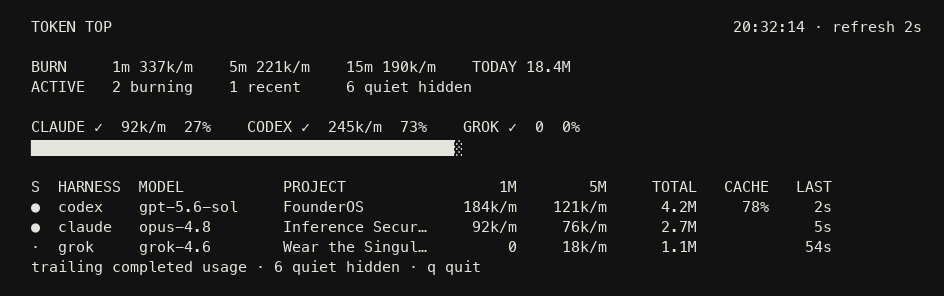
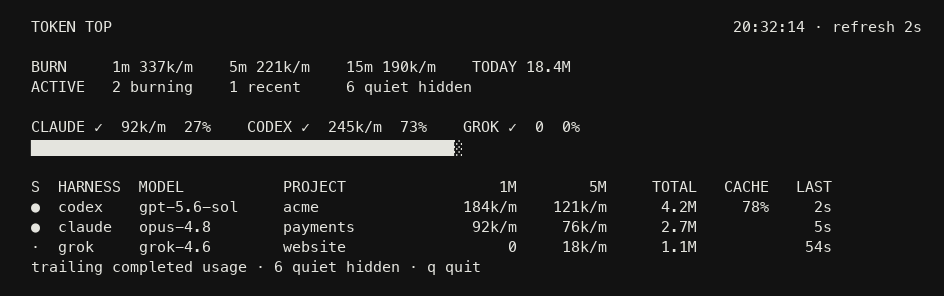
Treat token-top as a standalone public tool.
Drop FounderOS/integrator language from docs and package comments,
and replace portfolio names in fixtures, goldens, and the screenshot.

Changed region(s): [[0.2765, 0.6689, 0.4608, 0.7905], [0.2765, 0.8209, 0.4608, 0.8514]]

diff --git a/sources/claude/source_test.go b/sources/claude/source_test.go
@@ -53,7 +53,7 @@ func TestPollNormalAndEngine(t *testing.T) {
 	if snap.Global.Burning != 1 || snap.Sessions[0].Source != telemetry.SourceClaude {
 		t.Fatalf("snap %+v", snap)
 	}
-	if snap.Sessions[0].ProjectLabel != "FounderOS" {
+	if snap.Sessions[0].ProjectLabel != "acme" {
 		t.Fatalf("project %q", snap.Sessions[0].ProjectLabel)
 	}
 }
@@ -166,10 +166,10 @@ func TestPollTailFirstThenHistNoDoubleCount(t *testing.T) {
 		t.Fatal(err)
 	}
 	for i := 0; i < 20; i++ {
-		f.WriteString(`{"type":"user","timestamp":"2026-08-16T19:00:00.000Z","sessionId":"aaaaaaaa-aaaa-aaaa-aaaa-aaaaaaaaaaaa","cwd":"/work/FounderOS","message":{"role":"user"}}` + "\n")
+		f.WriteString(`{"type":"user","timestamp":"2026-08-16T19:00:00.000Z","sessionId":"aaaaaaaa-aaaa-aaaa-aaaa-aaaaaaaaaaaa","cwd":"/work/acme","message":{"role":"user"}}` + "\n")
 	}
-	f.WriteString(`{"type":"assistant","timestamp":"2026-08-16T19:50:00.000Z","sessionId":"aaaaaaaa-aaaa-aaaa-aaaa-aaaaaaaaaaaa","cwd":"/work/FounderOS","message":{"id":"msg_old","model":"claude-opus-4.8","usage":{"input_tokens":100,"output_tokens":20}}}` + "\n")
-	f.WriteString(`{"type":"assistant","timestamp":"2026-08-16T20:00:10.000Z","sessionId":"aaaaaaaa-aaaa-aaaa-aaaa-aaaaaaaaaaaa","cwd":"/work/FounderOS","message":{"id":"msg_new","model":"claude-opus-4.8","usage":{"input_tokens":5,"output_tokens":3}}}` + "\n")
+	f.WriteString(`{"type":"assistant","timestamp":"2026-08-16T19:50:00.000Z","sessionId":"aaaaaaaa-aaaa-aaaa-aaaa-aaaaaaaaaaaa","cwd":"/work/acme","message":{"id":"msg_old","model":"claude-opus-4.8","usage":{"input_tokens":100,"output_tokens":20}}}` + "\n")
+	f.WriteString(`{"type":"assistant","timestamp":"2026-08-16T20:00:10.000Z","sessionId":"aaaaaaaa-aaaa-aaaa-aaaa-aaaaaaaaaaaa","cwd":"/work/acme","message":{"id":"msg_new","model":"claude-opus-4.8","usage":{"input_tokens":5,"output_tokens":3}}}` + "\n")
 	f.Close()
 	src := New(Options{Projects: root, ReadBudget: 500, TailAfter: 250})
 	now := time.Date(2026, 8, 16, 20, 0, 12, 0, time.UTC)

diff --git a/ui/render_test.go b/ui/render_test.go
@@ -33,19 +33,19 @@ func testSnap() engine.Snapshot {
 		Sessions: []engine.Session{
 			{
 				Source: telemetry.SourceCodex, SessionID: "aaaaaaaa-aaaa-aaaa-aaaa-aaaaaaaaaaaa",
-				Activity: engine.ActivityBurning, Model: "gpt-5.6-sol", ProjectLabel: "FounderOS",
+				Activity: engine.ActivityBurning, Model: "gpt-5.6-sol", ProjectLabel: "acme",
 				Rate1m: 184000, Rate5m: 121000, Rate15m: 90000, Total: 4_200_000, Input: 3_000_000, Output: 1_200_000,
 				CacheRatio: &cache, FirstEvent: now.Add(-2 * time.Hour), LastEvent: now.Add(-2 * time.Second),
 			},
 			{
 				Source: telemetry.SourceClaude, SessionID: "bbbbbbbb-bbbb-bbbb-bbbb-bbbbbbbbbbbb",
-				Activity: engine.ActivityBurning, Model: "claude-opus-4.8", ProjectLabel: "Inference Security",
+				Activity: engine.ActivityBurning, Model: "claude-opus-4.8", ProjectLabel: "payments",
 				Rate1m: 92000, Rate5m: 76000, Rate15m: 40000, Total: 2_700_000,
 				LastEvent: now.Add(-5 * time.Second), FirstEvent: now.Add(-40 * time.Minute),
 			},
 			{
 				Source: telemetry.SourceGrok, SessionID: "cccccccc-cccc-cccc-cccc-cccccccccccc",
-				Activity: engine.ActivityRecent, Model: "grok-4.6", ProjectLabel: "Wear the Singularity",
+				Activity: engine.ActivityRecent, Model: "grok-4.6", ProjectLabel: "website",
 				Rate1m: 0, Rate5m: 18000, Rate15m: 12000, Total: 1_100_000,
 				LastEvent: now.Add(-54 * time.Second), FirstEvent: now.Add(-3 * time.Hour),
 			},
@@ -67,7 +67,7 @@ func renderAt(t *testing.T, width, height int, color bool) string {
 
 func TestRenderContainsRegions(t *testing.T) {
 	out := renderAt(t, 100, 24, false)
-	for _, want := range []string{"TOKEN TOP", "BURN", "ACTIVE", "CLAUDE", "CODEX", "GROK", "FounderOS", "trailing completed usage", "q quit"} {
+	for _, want := range []string{"TOKEN TOP", "BURN", "ACTIVE", "CLAUDE", "CODEX", "GROK", "acme", "trailing completed usage", "q quit"} {
 		if !strings.Contains(out, want) {
 			t.Fatalf("missing %q in\n%s", want, out)
 		}

diff --git a/sources/grok/parse_test.go b/sources/grok/parse_test.go
@@ -37,7 +37,7 @@ func consumeEvents(t *testing.T, name string) parsed {
 		t.Fatal(err)
 	}
 	defer f.Close()
-	p := Parser{SessionID: "11111111-1111-1111-1111-111111111111", CWD: "/work/FounderOS", Model: "grok-4.6"}
+	p := Parser{SessionID: "11111111-1111-1111-1111-111111111111", CWD: "/work/acme", Model: "grok-4.6"}
 	var out parsed
 	sc := bufio.NewScanner(f)
 	for sc.Scan() {
@@ -66,7 +66,7 @@ func TestNormalCompletedTurns(t *testing.T) {
 	if got.Events[0].Reasoning == nil || *got.Events[0].Reasoning != 4 {
 		t.Fatalf("reason %+v", got.Events[0].Reasoning)
 	}
-	if got.Events[0].Model != "grok-4.6" || got.Events[0].CWD != "/work/FounderOS" {
+	if got.Events[0].Model != "grok-4.6" || got.Events[0].CWD != "/work/acme" {
 		t.Fatalf("meta %+v", got.Events[0])
 	}
 	if got.Events[1].Input != 50 || got.Events[1].Total() != 55 {
@@ -133,8 +133,8 @@ func TestIgnoresUnifiedInferenceShape(t *testing.T) {
 }
 
 func TestParseSummary(t *testing.T) {
-	id, cwd, model, err := ParseSummary([]byte(`{"info":{"id":"aaaaaaaa-aaaa-aaaa-aaaa-aaaaaaaaaaaa","cwd":"/work/FounderOS"},"current_model_id":"grok-4.6","session_summary":"REDACTED"}`))
-	if err != nil || id != "aaaaaaaa-aaaa-aaaa-aaaa-aaaaaaaaaaaa" || cwd != "/work/FounderOS" || model != "grok-4.6" {
+	id, cwd, model, err := ParseSummary([]byte(`{"info":{"id":"aaaaaaaa-aaaa-aaaa-aaaa-aaaaaaaaaaaa","cwd":"/work/acme"},"current_model_id":"grok-4.6","session_summary":"REDACTED"}`))
+	if err != nil || id != "aaaaaaaa-aaaa-aaaa-aaaa-aaaaaaaaaaaa" || cwd != "/work/acme" || model != "grok-4.6" {
 		t.Fatalf("%s %s %s %v", id, cwd, model, err)
 	}
 }

diff --git a/ttop/ttop.go b/ttop/ttop.go
@@ -1,8 +1,7 @@
-// Package ttop is the stable v1 consumer API.
+// Package ttop is the library API for the token-top engine.
 //
-// FounderOS (or any other integrator) should import this package, inject an
-// [attribution.Attributor], and compose snapshots or a live loop from the
-// returned engine. The public module has no FounderOS, Postgres, or claim types.
+// Import this package, optionally inject an [attribution.Attributor],
+// and compose snapshots or a live loop from the returned engine.
 package ttop
 
 import (
@@ -17,9 +16,9 @@ import (
 	"github.com/markcmarshall/token-top/telemetry"
 )
 
-// Options configure a consumer-built engine.
+// Options configure the engine.
 type Options struct {
-	// Attributor labels events. Nil uses standalone git-root / CWD basename.
+	// Attributor labels events. Nil uses git-root / CWD basename.
 	Attributor attribution.Attributor
 	// Clock is the injected clock. Nil uses the system clock.
 	Clock engine.Clock
@@ -34,7 +33,7 @@ func Sources() []telemetry.Source {
 	}
 }
 
-// New builds an engine that FounderOS can poll with [Sources] or its own set.
+// New builds an engine. Poll it with [Sources] or a custom set.
 func New(opt Options) *engine.Engine {
 	return engine.New(opt.Clock, opt.Attributor)
 }

diff --git a/attribution/attribution_test.go b/attribution/attribution_test.go
@@ -9,8 +9,8 @@ import (
 )
 
 func TestCWDBasename(t *testing.T) {
-	got := CWDBasename(telemetry.TokenEvent{CWD: "/work/FounderOS"})
-	if got.Label != "FounderOS" || got.Method != "cwd" {
+	got := CWDBasename(telemetry.TokenEvent{CWD: "/work/acme"})
+	if got.Label != "acme" || got.Method != "cwd" {
 		t.Fatalf("%+v", got)
 	}
 	unknown := CWDBasename(telemetry.TokenEvent{CWD: ""})
@@ -21,7 +21,7 @@ func TestCWDBasename(t *testing.T) {
 
 func TestGitRootUsesRepoBasename(t *testing.T) {
 	root := t.TempDir()
-	repo := filepath.Join(root, "FounderOS")
+	repo := filepath.Join(root, "acme")
 	sub := filepath.Join(repo, "cmd", "ttop")
 	if err := os.MkdirAll(filepath.Join(repo, ".git"), 0o755); err != nil {
 		t.Fatal(err)
@@ -30,7 +30,7 @@ func TestGitRootUsesRepoBasename(t *testing.T) {
 		t.Fatal(err)
 	}
 	got := GitRoot(telemetry.TokenEvent{CWD: sub})
-	if got.Label != "FounderOS" || got.Method != "git" {
+	if got.Label != "acme" || got.Method != "git" {
 		t.Fatalf("%+v", got)
 	}
 	if got.Key != repo {

diff --git a/sources/claude/parse_test.go b/sources/claude/parse_test.go
@@ -46,7 +46,7 @@ func TestCacheAndThinkingNormalization(t *testing.T) {
 	if events[0].SessionID != "aaaaaaaa-aaaa-aaaa-aaaa-aaaaaaaaaaaa" {
 		t.Fatalf("session %s", events[0].SessionID)
 	}
-	if events[0].Model != "claude-opus-4.8" || events[0].CWD != "/work/FounderOS" {
+	if events[0].Model != "claude-opus-4.8" || events[0].CWD != "/work/acme" {
 		t.Fatalf("meta %+v", events[0])
 	}
 	if events[0].Input != 52 || events[0].Output != 10 || events[0].Total() != 62 {
@@ -109,7 +109,7 @@ func TestEventLevelCWDPreserved(t *testing.T) {
 	if bad != 0 || len(events) != 2 {
 		t.Fatalf("events=%d bad=%d", len(events), bad)
 	}
-	if events[0].CWD != "/work/FounderOS" || events[1].CWD != "/work/scripts" {
+	if events[0].CWD != "/work/acme" || events[1].CWD != "/work/scripts" {
 		t.Fatalf("cwd %q %q", events[0].CWD, events[1].CWD)
 	}
 	if events[0].SessionID != events[1].SessionID {

diff --git a/sources/grok/source_test.go b/sources/grok/source_test.go
@@ -19,7 +19,7 @@ func writeSession(t *testing.T, root, id, fixture string, summary bool) string {
 		t.Fatal(err)
 	}
 	if summary {
-		body := `{"info":{"id":"` + id + `","cwd":"/work/FounderOS"},"current_model_id":"grok-4.6"}`
+		body := `{"info":{"id":"` + id + `","cwd":"/work/acme"},"current_model_id":"grok-4.6"}`
 		if err := os.WriteFile(filepath.Join(dir, "summary.json"), []byte(body), 0o644); err != nil {
 			t.Fatal(err)
 		}
@@ -60,7 +60,7 @@ func TestPollNormalAndEngine(t *testing.T) {
 	if snap.Global.Today != 165 {
 		t.Fatalf("today %d", snap.Global.Today)
 	}
-	if snap.Sessions[0].Source != telemetry.SourceGrok || snap.Sessions[0].ProjectLabel != "FounderOS" {
+	if snap.Sessions[0].Source != telemetry.SourceGrok || snap.Sessions[0].ProjectLabel != "acme" {
 		t.Fatalf("snap %+v", snap.Sessions)
 	}
 }

diff --git a/sources/codex/parse_test.go b/sources/codex/parse_test.go
@@ -48,7 +48,7 @@ func TestNormalCumulativeDeltas(t *testing.T) {
 	if events[0].SessionID != "11111111-1111-1111-1111-111111111111" {
 		t.Fatalf("session %s", events[0].SessionID)
 	}
-	if events[0].Model != "gpt-5.6-sol" || events[0].CWD != "/work/FounderOS" {
+	if events[0].Model != "gpt-5.6-sol" || events[0].CWD != "/work/acme" {
 		t.Fatalf("meta %+v", events[0])
 	}
 	if events[0].Input != 100 || events[0].Output != 10 || events[0].Total() != 110 {

diff --git a/ttop/ttop_test.go b/ttop/ttop_test.go
@@ -21,7 +21,7 @@ func TestInjectedAttributorIsUsed(t *testing.T) {
 	eng.Apply(telemetry.Batch{
 		Events: []telemetry.TokenEvent{{
 			ID: "1", Source: telemetry.SourceClaude, SessionID: "s",
-			Timestamp: clk.Now(), Model: "m", CWD: "/work/FounderOS",
+			Timestamp: clk.Now(), Model: "m", CWD: "/work/acme",
 			Input: 4, Output: 1, Complete: true,
 		}},
 		Health: telemetry.SourceHealth{Source: telemetry.SourceClaude, State: telemetry.HealthOK},

diff --git a/ui/golden_test.go b/ui/golden_test.go
@@ -87,7 +87,7 @@ func hugeSnap() engine.Snapshot {
 
 func TestRenderOneSource(t *testing.T) {
 	out := Render(oneSourceSnap(), Options{Width: 100, Height: 24, Now: testSnap().GeneratedAt, Interval: 2 * time.Second})
-	if !strings.Contains(out, "CODEX") || !strings.Contains(out, "FounderOS") {
+	if !strings.Contains(out, "CODEX") || !strings.Contains(out, "acme") {
 		t.Fatalf("%s", out)
 	}
 }

diff --git a/attribution/attribution.go b/attribution/attribution.go
@@ -9,9 +9,7 @@ import (
 	"github.com/markcmarshall/token-top/telemetry"
 )
 
-// Attributor is the v1 consumer injection point.
-// FounderOS supplies a private implementation; the public engine never
-// imports FounderOS types.
+// Attributor labels a token event with a project key and display name.
 type Attributor interface {
 	Attribute(telemetry.TokenEvent) Attribution
 }

diff --git a/sources/codex/source_test.go b/sources/codex/source_test.go
@@ -53,7 +53,7 @@ func TestPollNormalAndEngine(t *testing.T) {
 	if snap.Global.Burning != 1 || snap.Sessions[0].Source != telemetry.SourceCodex {
 		t.Fatalf("snap %+v", snap)
 	}
-	if snap.Sessions[0].ProjectLabel != "FounderOS" {
+	if snap.Sessions[0].ProjectLabel != "acme" {
 		t.Fatalf("project %q", snap.Sessions[0].ProjectLabel)
 	}
 }
